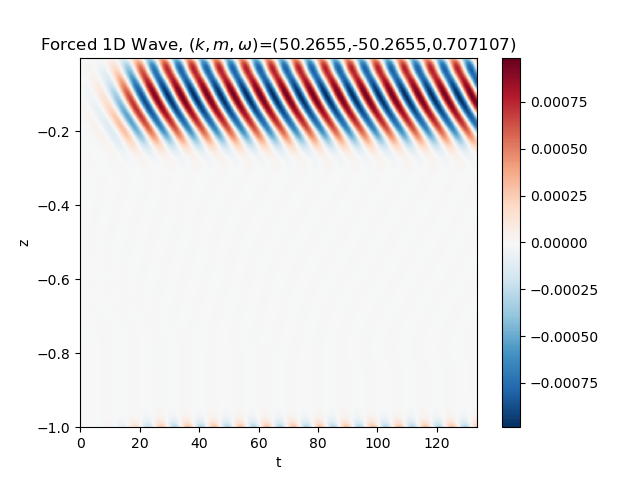
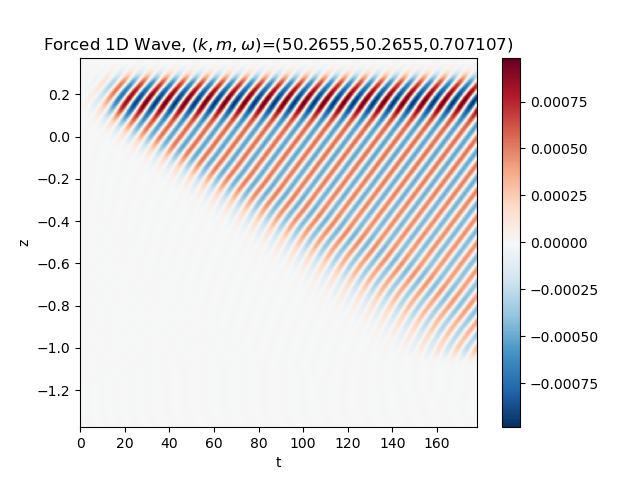
Now pulling most parameters from switchboard

diff --git a/main.py b/main.py
@@ -30,58 +30,31 @@ import sys
 # Arguments must be passed in the correct order
 arg_array = sys.argv
 switchboard = str(arg_array[0])
-#switchboard = str(arg_array[1])
-
-if (len(arg_array) != 2):
-    print("Wrong number of arguments passed to core code")
-    print("")
 
 ###############################################################################
 # Import SwitchBoard Parameters (sbp)
 #   This import assumes the switchboard is in the same directory as the core code
 import switchboard as sbp
-
-###############################################################################
-
-# Domain parameters
-nz = sbp.nz #1024
-z0, zf = -1.0, 0.0
-Lz = zf - z0
-
 # Physical parameters
-nu          = 1.0E-6            # [m^2/s] Viscosity (momentum diffusivity)
-kappa       = 1.4E-7            # [m^2/s] Thermal diffusivity
-g           = 9.81              # [m/s^2] Acceleration due to gravity
-
+nu          = sbp.nu            # [m^2/s] Viscosity (momentum diffusivity)
+kappa       = sbp.kappa         # [m^2/s] Thermal diffusivity
+g           = sbp.g             # [m/s^2] Acceleration due to gravity
 # Problem parameters
-N_0     = 1.0                   # [rad/s]       Reference stratification
-lam_x   = Lz / 8.0              # [m]           Horizontal wavelength
-lam_z   = lam_x                 # [m]           Vertical wavelength
-#
-k       = 2*np.pi / lam_x       # [m^-1]        Horizontal wavenumber
-m       = -2*np.pi / lam_z      # [m^-1]        Vertical wavenumber
-k_total = np.sqrt(k**2 + m**2)  # [m^-1]        Total wavenumber
-theta   = np.arctan(k/m)        # [rad]         Propagation angle from vertical
-#
-omega   = N_0 * np.cos(theta)   # [rad s^-1]    Wave frequency
-T       = 2*np.pi / omega       # [s]           Wave period
+N_0         = sbp.N_0           # [rad/s]       Reference stratification
+lam_x       = sbp.lam_x         # [m]           Horizontal wavelength
+lam_z       = sbp.lam_z         # [m]           Vertical wavelength
+k           = sbp.k             # [m^-1]        Horizontal wavenumber
+m           = sbp.m             # [m^-1]        Vertical wavenumber
+k_total     = sbp.k_total       # [m^-1]        Total wavenumber
+theta       = sbp.theta         # [rad]         Propagation angle from vertical
+omega       = sbp.omega         # [rad s^-1]    Wave frequency
+T           = sbp.T             # [s]           Wave period
 print('phase speed is',omega/m,'m/s')
-# Run parameters
-sim_time_stop = 15*T
-dt = 0.125 #2e-2
-adapt_dt = False
-snap_dt = 3*dt
-snap_max_writes = 100
-# temporal ramp
-temporal_ramp = True
-nT = 3.0
-# Output
-fh_mode = 'overwrite' # or 'append'
 
 ###############################################################################
 
 # Bases and domain
-z_basis = de.Fourier('z', nz, interval=(z0, zf), dealias=3/2)
+z_basis = de.Fourier('z', sbp.nz, interval=(sbp.z0, sbp.zf), dealias=sbp.dealias)
 domain = de.Domain([z_basis], np.float64)
 
 # Z grid
@@ -101,13 +74,6 @@ problem.parameters['BP'] = 1.0
 
 # Boundary forcing parameters
 A         = 2.0e-4
-# buffer    = 0.05
-problem.parameters['T']     = T   # [s] period of oscillation
-problem.parameters['nT']    = nT  # number of periods for the ramp
-problem.parameters['tau'] = 1.0e-1
-# problem.parameters['slope']     = 25
-# problem.parameters['left_edge'] = buffer + 0.0
-# problem.parameters['right_edge']= buffer + lam_x
 problem.parameters['k']     = k
 problem.parameters['m']     = m
 problem.parameters['omega'] = omega
@@ -125,7 +91,9 @@ for fld in ['u', 'w', 'b']:#, 'p']:
     del BF
 
 # Temporal ramp for boundary forcing
-if temporal_ramp:
+if sbp.temporal_ramp:
+    problem.parameters['T']     = T       # [s] period of oscillation
+    problem.parameters['nT']    = sbp.nT  # [] number of periods for the ramp
     problem.substitutions['ramp']   = "(1/2)*(tanh(4*t/(nT*T) - 2) + 1)"
 else:
     problem.substitutions['ramp']   = "1"
@@ -138,40 +106,36 @@ problem.substitutions['fb'] = "BFb*cos(m*z - omega*t)*ramp"
 ###############################################################################
 # Boundary forcing window
 win_bf = domain.new_field(name = 'win_bf')
-# amplitude
-a_bf = 1.0
-# Full width at half max
-b_bf = lam_z
-# Centered around
-z_cbf = -lam_z
+a_bf    = sbp.a_bf              # [] amplitude ("height") of the forcing window
+b_bf    = sbp.b_bf              # [m] full width at half max of forcing window
+c_bf    = sbp.c_bf              # [m] location of center of boundary forcing window
+problem.parameters['tau_bf'] = sbp.tau_bf
 # The equation for the window in z
-win_bf_array = a_bf*np.exp(-4*np.log(2)*((z - z_cbf)/b_bf)**2)
+win_bf_array = a_bf*np.exp(-4*np.log(2)*((z - c_bf)/b_bf)**2)
 win_bf['g'] = win_bf_array
 problem.parameters['win_bf'] = win_bf
 
 # Creating forcing terms
 for fld in ['u', 'w', 'b']:#, 'p']:
     # terms will be = win_bf * (f(psi) - psi)
-    problem.substitutions['F_term_' + fld] = "win_bf * (f"+fld+" - "+fld+")"
+    problem.substitutions['F_term_' + fld] = "win_bf * (f"+fld+" - "+fld+")/tau_bf"
 # problem.substitutions['bf_term'] = " win_bf * (a*sin(-m*z - omega*t) - w)"
 
 # Sponge window
 win_sp = domain.new_field(name = 'win_sp')
-# amplitude
-a_sp = 1.0
-# Full width at half max
-b_sp = lam_z
-# Centered around
-z_csp = -Lz + lam_z
+a_sp    = sbp.a_sp              # [] amplitude ("height") of the sponge window
+b_sp    = sbp.b_sp              # [m] full width at half max of sponge window
+c_sp    = sbp.c_sp              # [m] location of center of sponge window
+problem.parameters['tau_sp'] = sbp.tau_sp
 # The equation for the window in z
-win_sp_array = a_sp*np.exp(-4*np.log(2)*((z - z_csp)/b_sp)**2)
+win_sp_array = a_sp*np.exp(-4*np.log(2)*((z - c_sp)/b_sp)**2)
 win_sp['g'] = win_sp_array
 problem.parameters['win_sp'] = win_sp
 
 # Creating sponge terms
 for fld in ['u', 'w', 'b']:#, 'p']:
     # terms will be = win_bf * (f(psi) - psi)
-    problem.substitutions['S_term_' + fld] = "win_sp * "+fld+" / tau "
+    problem.substitutions['S_term_' + fld] = "win_sp * "+fld+" / tau_sp"
 # problem.substitutions['sp_term'] = "-win_sp * w / tau"
 
 # Plotting windows
@@ -202,9 +166,9 @@ problem.add_equation("dt(w) - NU*(dz(dz(w)) - (k**2)*w) + dz(p) - b " \
 # Build solver
 solver = problem.build_solver(de.timesteppers.SBDF2)
 logger.info('Solver built')
-solver.stop_sim_time  = sim_time_stop
-solver.stop_wall_time = 180 * 60.0 # length in minutes * 60 = length in seconds
-solver.stop_iteration = np.inf
+solver.stop_sim_time  = sbp.sim_time_stop
+solver.stop_wall_time = sbp.stop_wall_time
+solver.stop_iteration = sbp.stop_iteration
 
 # Above code modified from here: https://groups.google.com/forum/#!searchin/dedalus-users/%22wave$20equation%22%7Csort:date/dedalus-users/TJEOwHEDghU/g2x00YGaAwAJ
 
@@ -221,8 +185,8 @@ w['g'] = 0.0
 
 ###############################################################################
 # Analysis
-def add_new_file_handler(snapshot_directory='snapshots/new', sdt=snap_dt):
-    return solver.evaluator.add_file_handler(snapshot_directory, sim_dt=sdt, max_writes=snap_max_writes, mode=fh_mode)
+def add_new_file_handler(snapshot_directory='snapshots/new', sdt=sbp.snap_dt):
+    return solver.evaluator.add_file_handler(snapshot_directory, sim_dt=sdt, max_writes=sbp.snap_max_writes, mode=sbp.fh_mode)
 
 # Add file handler for snapshots and output state of variables
 snapshots = add_new_file_handler('snapshots')
@@ -231,7 +195,7 @@ snapshots.add_system(solver.state)
 ###############################################################################
 
 # CFL
-CFL = flow_tools.CFL(solver, initial_dt=dt, cadence=10, safety=1,
+CFL = flow_tools.CFL(solver, initial_dt=sbp.dt, cadence=10, safety=1,
                      max_change=1.5, min_change=0.5, max_dt=0.125, threshold=0.05)
 CFL.add_velocities(('w'))
 
@@ -252,6 +216,7 @@ t_list = [solver.sim_time]
 try:
     logger.info('Starting loop')
     start_time = time.time()
+    dt = sbp.dt
     while solver.proceed:
         solver.step(dt)
         if solver.iteration % 1 == 0:

diff --git a/switchboard.py b/switchboard.py
@@ -9,13 +9,13 @@ import numpy as np
 ###############################################################################
 # Main parameters, the ones I'll change a lot. Many more below
 
+# Run parameters
+stop_n_periods = 20             # [] oscillation periods
+
 # Domain parameters
 nz     = 1024                   # [] number of grid points in the z direction
 zf_dis = 0.0                    # [m] the top of the displayed z domain
 Lz_dis = 1.0                    # [m] the length of the z domain between forcing and sponge
-
-# Run parameters
-stop_n_periods = 20             # [] oscillation periods
 
 # Problem parameters
 N_0     = 1.0                   # [rad/s]       Reference stratification
@@ -33,12 +33,14 @@ T       = 2*np.pi / omega       # [s]           Wave period
 # Boundary forcing window
 a_bf    = 1.0                   # [] amplitude ("height") of the forcing window
 b_bf    = lam_z                 # [m] full width at half max of forcing window
-buff_bf = b_bf                  # [m] distance from top boundary to center of forcing window
+buff_bf = 1.5*b_bf              # [m] distance from top boundary to center of forcing window
+tau_bf  = 1.0e0
 
 # Sponge layer window
 a_sp    = 1.0                   # [] amplitude ("height") of the sponge window
 b_sp    = lam_z                 # [m] full width at half max of sponge window
-buff_sp = b_sp                  # [m] distance from bottom boundary to center of sponge window
+buff_sp = 1.5*b_sp              # [m] distance from bottom boundary to center of sponge window
+tau_sp  = 1.0e-1
 
 ###############################################################################
 ###############################################################################
@@ -49,47 +51,40 @@ buff_sp = b_sp                  # [m] distance from bottom boundary to center of
 # Lz_dis, also above
 z0_dis = zf_dis - Lz_dis        # [m] The bottom of the displayed domain
 # Dimensions of simulated domain
-zf      = zf_dis + 2*b_bf       # [m] top of simulated domain, 2 bf widths above displayed top
-z0      = z0_dis - 2*b_sp       # [m] bottom of simulated domain, 2 sp widths below displayed top
+zf      = zf_dis + 2*buff_bf    # [m] top of simulated domain, 2 bf widths above displayed top
+z0      = z0_dis - 2*buff_sp    # [m] bottom of simulated domain, 2 sp widths below displayed top
 Lz      = zf - z0               # [m] length of simulated domain
 
 
 # Boundary forcing window
-c_bf    = 1.0                   # [m] location of center of boundary forcing window
+c_bf    = zf - buff_bf          # [m] location of center of boundary forcing window
 
 # Sponge layer window
-c_sp    = 1.0                   # [m] location of center of sponge window
+c_sp    = z0 + buff_sp          # [m] location of center of sponge window
 
 ###############################################################################
-# Simulation parameters
-
-# Dealias factor
-dealias = 3/2                   # []
-
+# Run parameters
+dealias         = 3/2           # [] dealiasing factor
+dt              = 0.125         # [s] initial time step size
+snap_dt         = 5*dt          # [s] time step size for snapshots
+snap_max_writes = 100           # [] max number of writes per snapshot file
+fh_mode         = 'overwrite'   # file handling mode, either 'overwrite' or 'append'
 # Stopping conditions for the simulation
-sim_time_stop  = T * stop_n_periods
+sim_time_stop  =T*stop_n_periods# [s] number of simulated seconds until the sim stops
 stop_wall_time = 180 * 60.0     # [s] length in minutes * 60 = length in seconds, sim stops if exceeds
 stop_iteration = np.inf         # []
 
-# Initial time step size
-dt = 0.125                      # [s]
-
-
-# Run parameters pt. 2
-
-snap_dt = 3*dt
-snap_max_writes = 100
 # temporal ramp
 temporal_ramp = True
 nT = 3.0
-# Output
-fh_mode = 'overwrite' # or 'append'
 
 ###############################################################################
 # ON / OFF Switches
 
 # Determine whether adaptive time stepping is on or off
 adapt_dt                = False
+temporal_ramp           = True
+nT                      = 3.0   # number of oscillation periods long the ramp lasts
 
 # Terms in equations of motion
 viscous_term            = True
